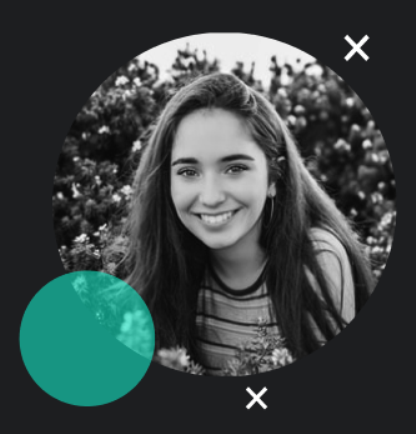
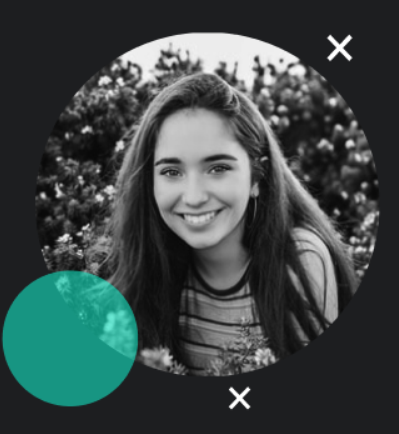
Made-Changes

Changed region(s): [[0.0, 0.0599, 0.9624, 0.9585], [0.812, 0.0599, 0.9023, 0.1498], [0.2105, 0.9286, 0.2406, 0.9585]]

diff --git a/task2.css b/task2.css
@@ -3,34 +3,35 @@ body{
 }
 .links{
     text-align: right;
-    margin: 0px 0px;
+    margin: 0em 0em;
 }
 .geekheaven{
     color: white;
-    margin: 30px 30px;
+    margin: 1.875em 1.875em;
 }
 ul{
     white-space: nowrap;
-    margin: 0px auto;
+    margin: 0em auto;
 }
 ul li{
     width: 20%;
     display: inline-block;
-    margin: 10px 10px;
+    margin: 0.625em 0.625em;
     text-align: center;
     position: relative;
-    top: -120px;
+    top: -7.5em;
 }
 ul li a{
     text-decoration: none;
     color: #13F7D2;
-    font-size: 24px;
+    font-size: 1.5em;
 }
 a:hover{
     text-decoration: underline;
+    color: #13F7D2;
 }
 main{
-    margin: 10px 10px;
+    margin: 0.625em 0.625em;
     columns: 2;
 }
 .intro{
@@ -38,15 +39,15 @@ main{
 }
 h1.intro{
     color: #13F7D2;
-    font-size: 60px;
+    font-size: 3.75em;
 }
 p.intro1{
     color: white;
-    font-size: 36px;
+    font-size: 2.25em;
 }
 p.intro2{
     color: white;
-    font-size: 20px;
+    font-size: 1.25em;
 }
 .footer{
     color: white;
@@ -60,10 +61,10 @@ p.intro2{
     color: #13F7D2;
 }
 i{
-    padding: 6px 6px;
-    border: 2px solid #13F7D2;
+    padding: 0.375em 0.375em;
+    border: 0.125em solid #13F7D2;
     border-radius: 50%;
-    margin: 5px 5px;
+    margin: 0.3125em 0.3125em;
 }
 .intro::selection{
     background-color: white;
@@ -88,6 +89,97 @@ i{
 }
 .pic{
     position: relative;
-    left: 180px;
-    top: -40px;
+    left: 11.25em;
+    top: -4.5em;
+}
+.btn-group{
+    display: none;
+    position: relative;
+    right: 50px;
+    bottom: 130px;
+}
+@media screen and (max-width: 1125px){
+    .pic{
+        position: static;
+    }
+}
+@media screen and (max-width: 830px){
+    main{
+        columns: 1;
+    }
+    .pic{
+        position: relative;
+    }
+}
+@media screen and (max-width: 660px){
+    .pic{
+        position: static;
+    }
+}
+@media screen and (max-width: 380px){
+    h1.intro{
+        font-size: 3.5em;
+    }
+}
+@media screen and (max-width: 600px){
+    .about-join{
+        display: none;
+    }
+    .btn-group{
+        display: inline;
+        background-color: #1c1e1e;
+        color: #13F7D2;
+    }
+    .btn-group button{
+        background-color: #1c1e1e;
+        color: #13F7D2;
+    }
+    .btn-group button:hover{
+        color: #13F7D2;
+    }
+    .btn-group button::selection{
+        color: #13F7D2;
+    }
+    .fa-bars{
+        color: #13F7D2;
+    }
+    .dropdown-item{
+        color: #13F7D2;
+    }
+    .dropdown-item:hover{
+        text-decoration: underline;
+    }
+    .dropdown-menu{
+        background-color: #1c1e1e;
+    }
+    .dropdown-menu:hover{
+        background-color: #1c1e1e;
+    }
+}
+@media screen and (max-width: 358px){
+    h1.intro{
+        font-size: 3.25em;
+    }
+}
+@media screen and (max-width: 335px){
+    h1.intro{
+        font-size: 3em;
+    }
+}
+@media screen and (max-width: 450px){
+    .pic{
+        width: 330px;
+        height: 370px;
+    }
+    .geekheaven{
+        width: 85px;
+        height: 75px;
+        margin: 15px 15px;
+    }
+}
+.fa-bars{
+    border: none;
+    font-size: 40px;
+    margin: none;
+    padding: none;
 }

diff --git a/task2.html b/task2.html
@@ -3,6 +3,10 @@
 <head>
     <meta charset="UTF-8">
     <meta name="viewport" content="width=device-width, initial-scale=1.0">
+    <link rel="stylesheet" href="https://maxcdn.bootstrapcdn.com/bootstrap/4.0.0/css/bootstrap.min.css" integrity="sha384-Gn5384xqQ1aoWXA+058RXPxPg6fy4IWvTNh0E263XmFcJlSAwiGgFAW/dAiS6JXm" crossorigin="anonymous">
+    <script src="https://code.jquery.com/jquery-3.2.1.slim.min.js" integrity="sha384-KJ3o2DKtIkvYIK3UENzmM7KCkRr/rE9/Qpg6aAZGJwFDMVNA/GpGFF93hXpG5KkN" crossorigin="anonymous"></script>
+    <script src="https://cdnjs.cloudflare.com/ajax/libs/popper.js/1.12.9/umd/popper.min.js" integrity="sha384-ApNbgh9B+Y1QKtv3Rn7W3mgPxhU9K/ScQsAP7hUibX39j7fakFPskvXusvfa0b4Q" crossorigin="anonymous"></script>
+    <script src="https://maxcdn.bootstrapcdn.com/bootstrap/4.0.0/js/bootstrap.min.js" integrity="sha384-JZR6Spejh4U02d8jOt6vLEHfe/JQGiRRSQQxSfFWpi1MquVdAyjUar5+76PVCmYl" crossorigin="anonymous"></script>
     <link rel="stylesheet" href="task2.css">
     <link rel="stylesheet" href="https://cdnjs.cloudflare.com/ajax/libs/font-awesome/4.7.0/css/font-awesome.min.css" >
     <title>Task-2</title>
@@ -12,10 +16,20 @@
     <header>
         <img src="gh.png" alt="Geekheaven" class="geekheaven">
         <nav class="links">
-            <ul>
-                <li><a href="" class="about">About</a></li>
-                <li><a href="" class="join">Contact</a></li>
+            <ul class="about-join">
+                <li><a href="#" class="about">About</a></li>
+                <li><a href="#" class="join">Contact</a></li>
             </ul>
+            <div class="btn-group" role="group">
+                <button id="btnGroupDrop1" type="button" class="btn btn-secondary dropdown-toggle" data-toggle="dropdown" aria-haspopup="true" aria-expanded="false">
+                  <span><i class="fa fa-bars" aria-hidden="true"></i></span>
+                </button>
+                <div class="dropdown-menu" aria-labelledby="btnGroupDrop1">
+                  <a class="dropdown-item" href="#">About</a>
+                  <a class="dropdown-item" href="#">Contact</a>
+                </div>
+              </div>
+            </div>
         </nav>
     </header>
 
